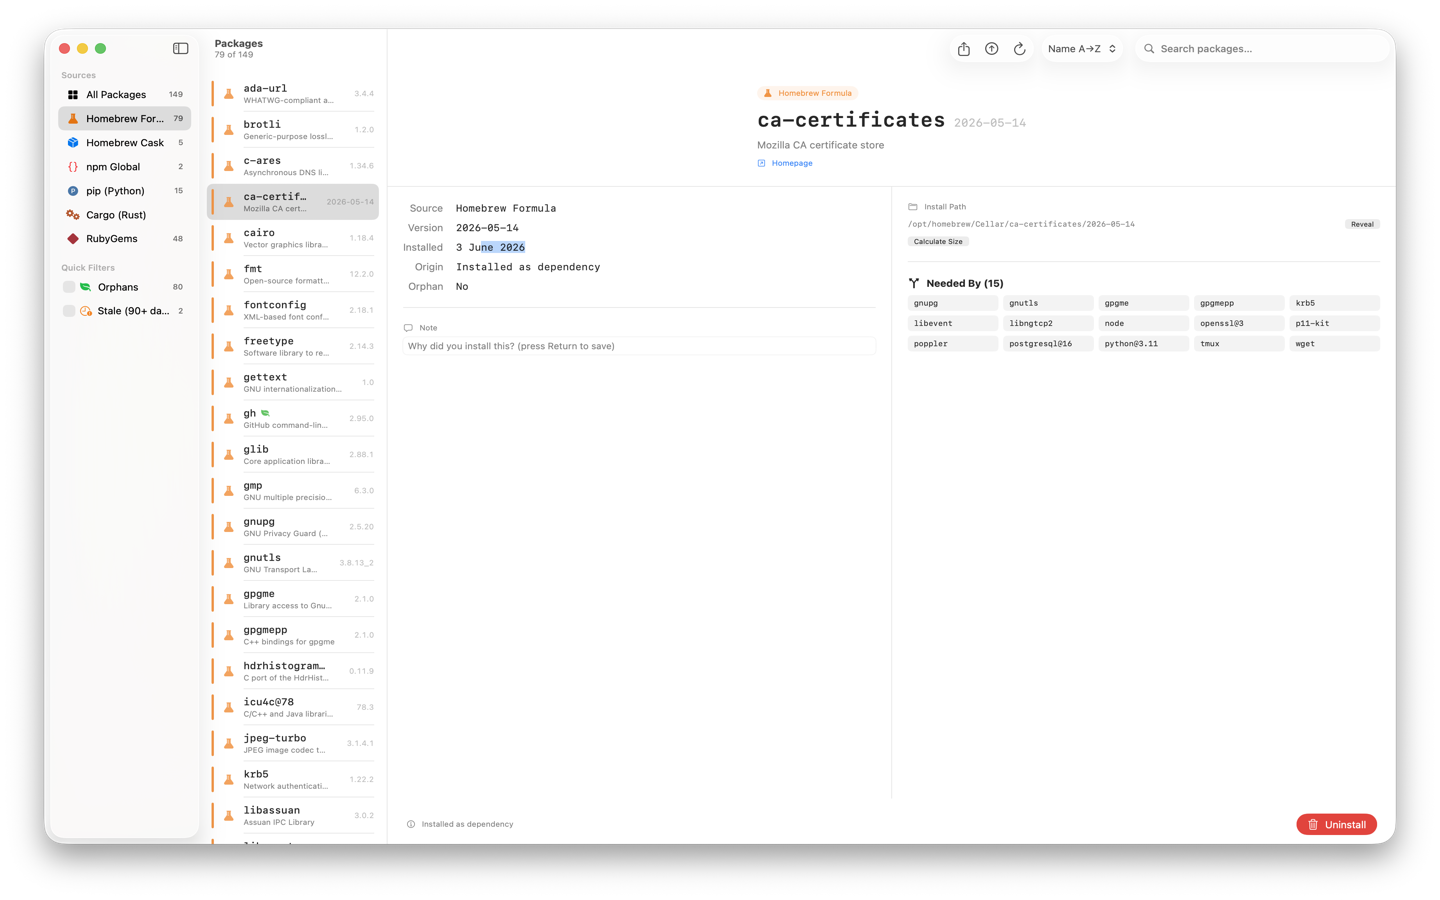
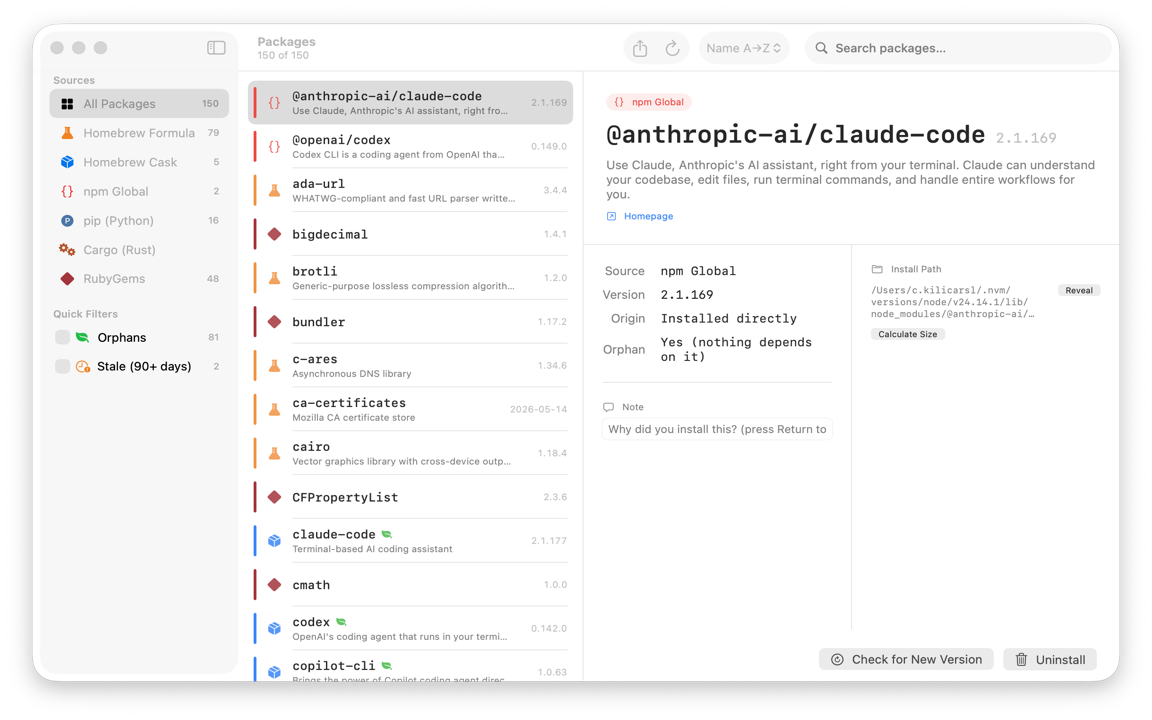
docs: refresh screenshots and update README for v1.0.0 UI changes
Screenshots retaken from the current build — show:
- overview.png: 150-package dashboard with per-source breakdown stats
- detail.png: npm package with new per-package Check for New Version +
  Uninstall buttons in the action bar
- brew_detail.png: Homebrew formula with Needed By reverse deps,
  bordered Export/Refresh toolbar, bottom action bar

README updates:
- Hero image swapped to overview screenshot
- Features table: add per-package version check + one-click upgrade row
- Screenshots section: replaced old screenshots with new 3-panel set
- Usage table: update Check for Updates row to per-package flow,
  add Help menu entry
- filters.png removed from README (replaced by brew_detail.png)

diff --git a/README.md b/README.md
@@ -11,7 +11,7 @@
     <img src="https://img.shields.io/github/stars/canberkys/pkglens?style=flat-square&color=yellow" alt="Stars">
   </p>
 
-  <img src="Screenshots/detail.png" width="780" alt="PkgLens showing package details, reverse dependencies, and install path" />
+  <img src="Screenshots/overview.png" width="780" alt="PkgLens — 150 packages across 5 package managers" />
 </div>
 
 ---
@@ -27,7 +27,8 @@ No Electron. No web view. Pure SwiftUI.
 | | |
 |---|---|
 | **6 package managers** | Homebrew formula + cask, npm (nvm-aware), pip, Cargo, RubyGems |
-| **Update detection** | Parallel check across all managers — badge + one-click upgrade |
+| **Per-package version check** | "Check for New Version" button in each package — no need to scan everything |
+| **One-click upgrade** | Update Homebrew and npm packages directly from the detail panel |
 | **Orphan detection** | `brew leaves`-based; bulk-remove with one confirmation |
 | **Stale packages** | Flags installs untouched for 90+ days |
 | **Install path** | Exact location on disk; Reveal in Finder; lazy size calculation |
@@ -42,9 +43,9 @@ No Electron. No web view. Pure SwiftUI.
 ## Screenshots
 
 <div align="center">
-  <img src="Screenshots/filters.png" width="780" alt="PkgLens showing source filters, stale packages, and orphan detection" />
+  <img src="Screenshots/detail.png" width="780" alt="npm package selected — per-package Check for New Version and Uninstall buttons" />
   <br><br>
-  <img src="Screenshots/detail.png" width="780" alt="PkgLens showing package details, reverse dependencies, and install path" />
+  <img src="Screenshots/brew_detail.png" width="780" alt="Homebrew formula with Needed By reverse dependencies and install path" />
 </div>
 
 ---
@@ -88,16 +89,17 @@ The package managers themselves are all optional — PkgLens skips any that aren
 
 | Action | How |
 |---|---|
-| **Refresh** | ⌘R or the refresh toolbar button |
+| **Refresh** | ⌘R or the Refresh toolbar button |
 | **Filter by source** | Click any row in the Sources sidebar |
 | **Orphan / Stale view** | Toggle Quick Filters in the sidebar |
 | **Search** | Type in the search bar — matches name and description |
-| **Check for updates** | Toolbar → "Check Updates" — outdated packages get a blue ↑ badge |
-| **Upgrade a package** | Select it → click Update in the detail panel (Homebrew + npm) |
+| **Check a package version** | Select it → "Check for New Version" in the bottom action bar |
+| **Upgrade a package** | Select it → "Update" banner appears if newer version found (Homebrew + npm) |
 | **Uninstall** | Select package → Uninstall button, or right-click any row |
 | **Bulk remove orphans** | Enable Orphans filter → "Remove All Orphans" |
 | **Add a note** | Detail panel → Note field → press Return |
 | **Export** | Toolbar → Export → Markdown or JSON |
+| **Help** | Menu bar → Help |
 
 ---
 
